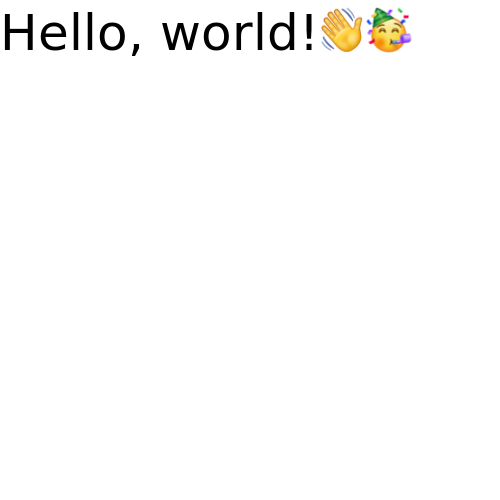
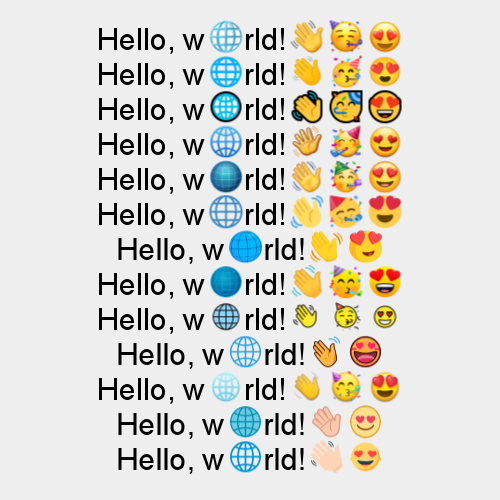
chore: update example

Changed region(s): [[0.0, 0.0, 0.84, 0.96], [0.18, 0.27, 0.33, 0.45]]

diff --git a/example/example.ts b/example/example.ts
@@ -1,12 +1,25 @@
 import { createCanvas } from 'canvas'
-import { fillText } from '/src'
+import { fillText, measureText, Style } from './src'
 import { writeFileSync } from 'fs'
 
-(async () => {
+(async (): Promise<void> => {
+  const text = 'Hello, w🌐rld!👋🥳😍'
   const canvas = createCanvas(500, 500)
   const ctx = canvas.getContext('2d')
+  ctx.fillStyle = '#eee'
+  ctx.fillRect(0, 0, canvas.width, canvas.height)
   ctx.fillStyle = '#000'
-  ctx.font = '50px Arial'
-  await fillText(ctx, 'Hello, world!👋🥳', 0, 50, 'whatsapp')
+  ctx.font = '30px Arial'
+
+  // supported styles
+  const styles = ['apple', 'google', 'microsoft', 'samsung', 'whatsapp', 'twitter', 'messenger', 'joypixels', 'openmoji', 'emojidex', 'lg', 'htc', 'mozilla']
+  console.time('Execution time')
+  for (let i = 0; i < styles.length; i++) {
+    const style = styles[i] as Style
+    const fontWidth = await measureText(ctx, text, style)
+    await fillText(ctx, text, canvas.width / 2 - fontWidth.width / 2, 50 + i * 35, style)
+  }
+  console.timeEnd('Execution time')
+  // save canvas as png
   writeFileSync('example.png', canvas.toBuffer())
-})() as any
+})().catch(() => {})
